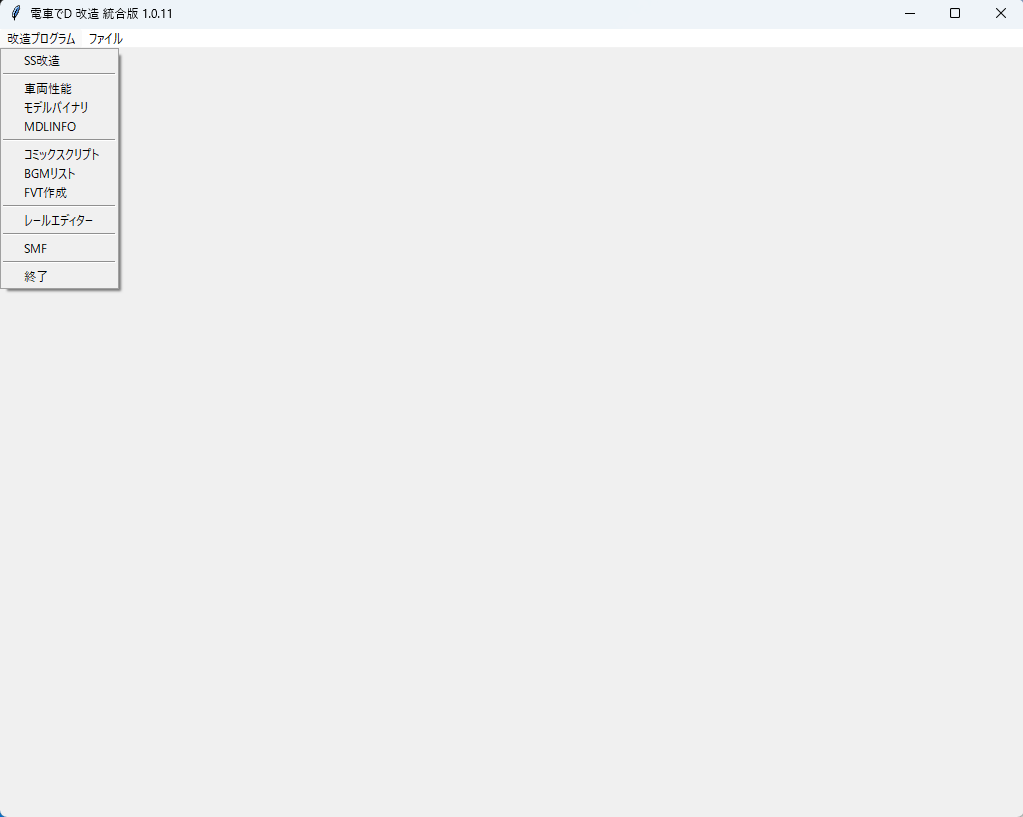
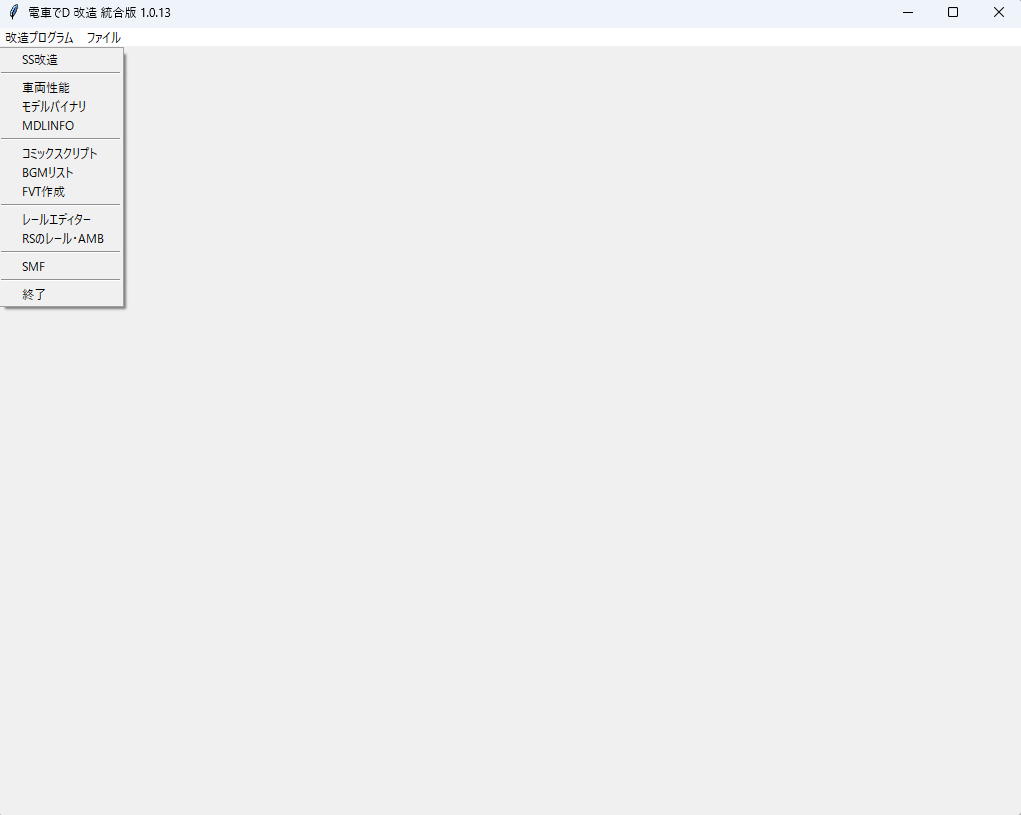
rsRail update

Changed region(s): [[0.0, 0.0, 0.1822, 0.3988]]

diff --git a/program/rsRail/rsRail.py b/program/rsRail/rsRail.py
@@ -12,6 +12,7 @@ root = None
 v_railNo = None
 v_ambNo = None
 v_fileName = None
+v_delay = None
 contentsLf = None
 frame = None
 memoryObj = None
@@ -34,6 +35,7 @@ def deleteAllWidget():
 def createWidget():
     global v_railNo
     global v_ambNo
+    global v_delay
     global contentsLf
     global railValList
     global railElementList
@@ -118,6 +120,13 @@ def createWidget():
     ambModifyBtn = ttk.Button(ambNoFrame, text="変更", command=lambda: modifyAMB(), state="disabled")
     ambModifyBtn.grid(row=0, column=3, sticky=tkinter.W + tkinter.E, padx=30)
     ambElementList.append(ambModifyBtn)
+
+    delayLb = ttk.Label(ambNoFrame, text="AMBの再描画時間（秒）", font=("", 14))
+    delayLb.grid(row=0, column=4, sticky=tkinter.W + tkinter.E)
+    v_delay = tkinter.DoubleVar()
+    v_delay.set(0.3)
+    delayEt = ttk.Entry(ambNoFrame, textvariable=v_delay, font=("", 14), width=7, justify="center")
+    delayEt.grid(row=0, column=5, sticky=tkinter.W + tkinter.E, padx=10)
 
     ambContentsFrame = ttk.Frame(contentsLf)
     ambContentsFrame.pack(anchor=tkinter.NW, padx=5, fill=tkinter.BOTH, expand=True)
@@ -369,7 +378,13 @@ def searchRail():
     global v_railNo
     global memoryObj
 
-    valList = memoryObj.getRailMemory(v_railNo.get())
+    try:
+        valList = memoryObj.getRailMemory(v_railNo.get())
+    except Exception:
+        errorMsg = "整数で入力してください"
+        mb.showerror(title="エラー", message=errorMsg)
+        return
+
     if valList is None:
         errorMsg = "レールのメモリーを参照できません。\nステージを選択してから実行してください"
         mb.showerror(title="エラー", message=errorMsg)
@@ -431,8 +446,13 @@ def saveRail(railNo):
 
     if result:
         valList = []
-        for i in range(4):
-            valList.append(railValList[i].get())
+        try:
+            for i in range(4):
+                valList.append(railValList[i].get())
+        except Exception:
+            errorMsg = "読み込めない数字があります"
+            mb.showerror(title="エラー", message=errorMsg)
+            return
 
         if not memoryObj.saveMemory(railNo, valList):
             memoryObj.printError()
@@ -448,7 +468,13 @@ def searchAMB():
     global v_ambNo
     global memoryObj
 
-    valList = memoryObj.getAMBMemory(v_ambNo.get())
+    try:
+        valList = memoryObj.getAMBMemory(v_ambNo.get())
+    except Exception:
+        errorMsg = "整数で入力してください"
+        mb.showerror(title="エラー", message=errorMsg)
+        return
+
     if valList is None:
         errorMsg = "AMBのメモリーを参照できません。\nステージを選択してから実行してください"
         mb.showerror(title="エラー", message=errorMsg)
@@ -511,6 +537,7 @@ def modifyAMB():
 
 
 def saveAMB(ambNo):
+    global v_delay
     global ambValList
     global ambElementList
     global ambChildValList
@@ -539,21 +566,32 @@ def saveAMB(ambNo):
 
     if result:
         valList = []
-        for i in range(len(ambValList)):
-            valList.append(ambValList[i].get())
+        try:
+            for i in range(len(ambValList)):
+                valList.append(ambValList[i].get())
 
-        childCount = len(ambChildValList) // 10
-        childList = []
-        offIdx = 0
-        for i in range(childCount):
-            childInfo = []
-            for j in range(10):
-                childInfo.append(ambChildValList[offIdx + j].get())
-            childList.append(childInfo)
-            offIdx += 10
-        valList.append(childList)
+            childCount = len(ambChildValList) // 10
+            childList = []
+            offIdx = 0
+            for i in range(childCount):
+                childInfo = []
+                for j in range(10):
+                    childInfo.append(ambChildValList[offIdx + j].get())
+                childList.append(childInfo)
+                offIdx += 10
+            valList.append(childList)
+        except Exception:
+            errorMsg = "読み込めない数字があります"
+            mb.showerror(title="エラー", message=errorMsg)
+            return
 
-        if not memoryObj.saveAMBMemory(ambNo, valList):
+        delay = 0.3
+        try:
+            delay = v_delay.get()
+        except Exception:
+            v_delay.set(0.3)
+
+        if not memoryObj.saveAMBMemory(ambNo, valList, delay):
             memoryObj.printError()
             errorMsg = "AMBのメモリーを参照できません。"
             mb.showerror(title="エラー", message=errorMsg)

diff --git a/program/rsRail/getMemory/getMemory.py b/program/rsRail/getMemory/getMemory.py
@@ -2,6 +2,7 @@ import os
 import codecs
 import copy
 import traceback
+import time
 from pymem import Pymem
 from pymem.process import module_from_name
 
@@ -145,14 +146,16 @@ class GetMemory:
             self.error = traceback.format_exc()
             return False
 
-    def saveAMBMemory(self, ambNo, valList):
+    def saveAMBMemory(self, ambNo, valList, delay=0.3):
         copyMemoryAddr = copy.deepcopy(self.ambMemory)
         copyMemoryAddr[1][-1] += (ambNo * 0x124)
 
         try:
             ambAddr = self.getPtrAddr(self.game_module + copyMemoryAddr[0], copyMemoryAddr[1])
+            lengthAmbAddr = copy.deepcopy(ambAddr)
+            lengthValue = valList[0]
             offIdx = 0
-            self.mem.write_float(ambAddr, valList[offIdx])
+            self.mem.write_float(ambAddr, 0.0)
             ambAddr += 4
             offIdx += 1
 
@@ -184,6 +187,8 @@ class GetMemory:
                     self.mem.write_float(ambAddr, childList[j])
                     ambAddr += 4
                 ambAddr += 200
+            time.sleep(delay)
+            self.mem.write_float(lengthAmbAddr, lengthValue)
             return True
         except Exception:
             self.error = traceback.format_exc()
